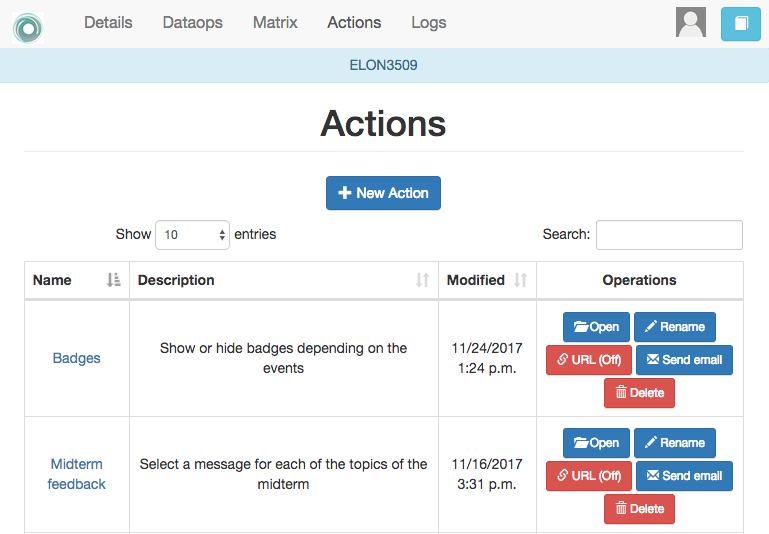
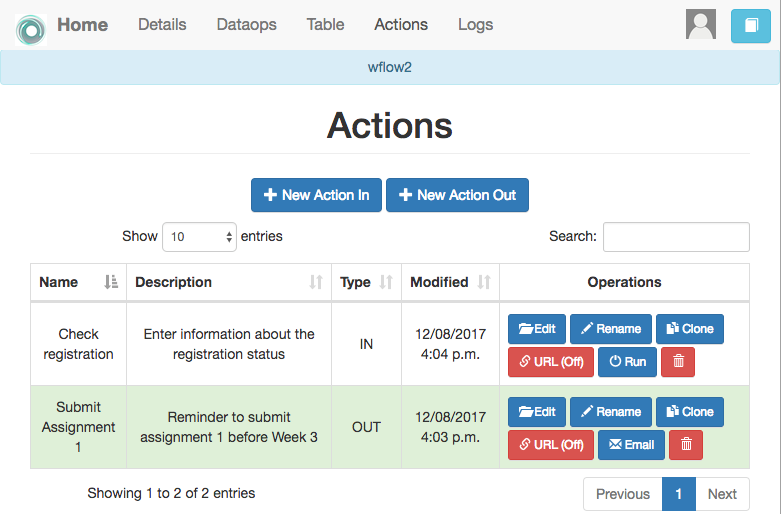
Additional information in the docs and additional pages and changes

Changed region(s): [[0.0312, 0.3113, 0.9675, 1.0], [0.0, 0.0, 1.0, 1.0]]

diff --git a/src/action/templates/action/run.html b/src/action/templates/action/run.html
@@ -17,10 +17,10 @@
   <script src="https://cdn.datatables.net/1.10.16/js/dataTables.bootstrap.min.js"></script>
   <script src="{% static 'table/js/table.js' %}"></script>
   <script type="text/javascript">
-    if (document.getElementById("table-data") != null) {
+    if (document.getElementById("actioninrun-data") != null) {
         // Required for DataTables
         $(document).ready(function() {
-            $('#table-data').DataTable({
+            $('#actioninrun-data').DataTable({
                 processing: true,
                 serverSide: true,
                 ajax: {
@@ -50,7 +50,7 @@
     <h4 class="page-header"><strong>{{ action.name }}</strong></h4>
     <p class="help-block">{{ action.description_text }}</p>
     <table class="table display dataTable no-footer cell-border table-bordered"
-           id="table-data">
+           id="actioninrun-data">
       <thead>
         <tr>
           {% for c in columns %}

diff --git a/src/static/site/css/main.css b/src/static/site/css/main.css
@@ -238,6 +238,7 @@ td.dt-body-center {
     }
 
 #table-data td,
+#actioninrun-data td,
 #workflow-table td,
 #action-table td,
 #log-table td {

diff --git a/src/action/tests/test_views.py b/src/action/tests/test_views.py
@@ -2,11 +2,14 @@
 from __future__ import unicode_literals, print_function
 
 import os
+import time
 
 from django.conf import settings
 from django.shortcuts import reverse
+from selenium.webdriver.common.by import By
+from selenium.webdriver.common.keys import Keys
 from selenium.webdriver.support import expected_conditions as EC
-from selenium.webdriver.support.ui import WebDriverWait
+from selenium.webdriver.support.ui import WebDriverWait, Select
 
 import test
 from dataops import pandas_db
@@ -768,64 +771,6 @@ class ActionActionRun(test.OntaskLiveTestCase):
         pandas_db.delete_all_tables()
         super(ActionActionRun, self).tearDown()
 
-    # Test operations with the filter
-    def test_action_01_data_entry(self):
-        # Login
-        self.login('instructor1@bogus.com')
-
-        self.open(reverse('workflow:index'))
-
-        # GO TO THE WORKFLOW PAGE
-        WebDriverWait(self.selenium, 10).until(
-            EC.title_is('Ontask :: Workflows'))
-        self.assertIn('New Workflow', self.selenium.page_source)
-        self.assertIn('Import', self.selenium.page_source)
-
-        # Open the workflow
-        wf_link = self.selenium.find_element_by_link_text(self.wflow_name)
-        wf_link.click()
-        WebDriverWait(self.selenium, 10).until(
-            EC.presence_of_element_located((By.ID, 'wflow-name')))
-
-        # Goto the action page
-        self.selenium.find_element_by_link_text('Actions').click()
-        self.assertIn('New Action', self.selenium.page_source)
-
-        # Create a new action
-        self.selenium.find_element_by_xpath(
-            "//body/div/p/button[1]"
-        ).click()
-        # Wait for page to introduce name
-        WebDriverWait(self.selenium, 10).until(
-            EC.element_to_be_clickable(
-                (By.ID, 'id_name')
-            )
-        )
-
-        self.selenium.find_element_by_id('id_name').send_keys(
-            'new action in'
-        )
-        desc = self.selenium.find_element_by_id('id_description_text')
-        desc.send_keys('small description')
-        desc.send_keys(Keys.RETURN)
-        # Wait for workflows page
-        WebDriverWait(self.selenium, 10).until(
-            EC.element_to_be_clickable(
-                (By.LINK_TEXT, test.wflow_name)
-            )
-        )
-
-        # End of session
-        self.logout()
-
-
-from selenium.webdriver.common.by import By
-from selenium.webdriver.common.keys import Keys
-from selenium.webdriver.support.ui import Select
-from selenium.common.exceptions import NoSuchElementException
-from selenium.common.exceptions import NoAlertPresentException
-import time
-
 
 class ActionActionInCreate(test.OntaskLiveTestCase):
     fixtures = ['simple_workflow_two_actions']
@@ -867,72 +812,56 @@ class ActionActionInCreate(test.OntaskLiveTestCase):
             EC.element_to_be_clickable((By.CLASS_NAME, 'success'))
         )
 
+        # Create new action
         self.selenium.find_element_by_xpath(
             "(//button[@type='button'])[2]"
         ).click()
 
+        # Introduce information about the action in the form
         self.selenium.find_element_by_id("id_name").click()
-
         self.selenium.find_element_by_id("id_name").clear()
-
         self.selenium.find_element_by_id("id_name").send_keys("new action in")
-
         self.selenium.find_element_by_xpath("//button[@type='submit']").click()
 
+        # Introducting the information in the action editor
         self.selenium.find_element_by_name("builder_rule_0_filter").click()
-
         Select(self.selenium.find_element_by_name(
             "builder_rule_0_filter")).select_by_visible_text("registered")
-
         self.selenium.find_element_by_name("builder_rule_0_value_0").click()
-
         self.selenium.find_element_by_id("id____ontask___select_1").click()
-
         self.selenium.find_element_by_id("id____ontask___select_4").click()
-
+        # Submit the action
         self.selenium.find_element_by_xpath(
             "(//button[@name='Submit'])[2]").click()
         WebDriverWait(self.selenium, 10).until(
             EC.element_to_be_clickable((By.CLASS_NAME, 'js-action-showurl'))
         )
 
+        # Run the action
         self.selenium.find_element_by_xpath(
             "//table[@id='action-table']/tbody/tr[3]/td[5]/a[3]").click()
-
+        WebDriverWait(self.selenium, 10).until(
+            EC.element_to_be_clickable(
+                (By.LINK_TEXT, "student2@bogus.com")
+            )
+        )
+        # Enter data for the remaining user
         self.selenium.find_element_by_link_text("student2@bogus.com").click()
-
+        # Mark as registered
         self.selenium.find_element_by_id("id____ontask___select_1").click()
-
+        # Submit form
         self.selenium.find_element_by_xpath(
             "(//button[@name='submit'])[2]"
         ).click()
-
+        WebDriverWait(self.selenium, 10).until(
+            EC.presence_of_element_located(
+                (By.XPATH, "//table[@id='actioninrun-data']/tbody")
+            )
+        )
+        self.assertIn('No matching records found', self.selenium.page_source)
         self.selenium.find_element_by_xpath(
             "(//button[@type='button'])[2]"
         ).click()
 
-    def is_element_present(self, how, what):
-        try:
-            self.selenium.find_element(by=how, value=what)
-        except NoSuchElementException as e:
-            return False
-        return True
-
-    def is_alert_present(self):
-        try:
-            self.selenium.switch_to_alert()
-        except NoAlertPresentException as e:
-            return False
-        return True
-
-    def close_alert_and_get_its_text(self):
-        try:
-            alert = self.selenium.switch_to_alert()
-            alert_text = alert.text
-            if self.accept_next_alert:
-                alert.accept()
-            else:
-                alert.dismiss()
-            return alert_text
-        finally:
-            self.accept_next_alert = True
+        # End of session
+        self.logout()

diff --git a/docs/Using/actions.rst b/docs/Using/actions.rst
@@ -7,19 +7,60 @@ The Actions
     vision"
     -- Dalai Lama
 
-This is perhaps the most important functionality of the platform. It allows edit a resource (in a format close to HTML) and mark certain elements with conditions that will control its appearance in the final view. Think of an *action* as a resource (item, message, tip, comment) you would give learners during a experience. You may have several of these items prepared to be used at different points during the expeience. As a consequence, a workflow may contain an arbitrary number of these actions. The *action* page simply shows a table with the actions contained in the workflow.
+This is the most important functionality of the platform. Actions are exchange of information with the learners. There are two types: actions in, and actions out. A workflow contains an arbitrary number of these actions. The *action* page shows a table with the actions in the selected workflow.
 
 .. figure:: images/Ontask____Actions.png
    :align: center
    :width: 100%
 
-Similarly to the case of the workflow, each action is identified by a name (unique) and an optional description. There are also various operations supported for each action (right most column in the table shown in the previous figure). Also, and following the same structure than the workflow, you may open an action to manipulate it by clicking on its name. The action is manipulated with the screen shown in the following figure
+Similarly to the case of the workflow, each action is identified by a name (unique) and an optional description. There are several operations supported for each action (right most column in the table shown in the previous figure).
+
+Actions In
+**********
+
+These actions allow you either instructors or students to introduce information in the table stored in a workflow. When providing information, you typicially are interested in a subset of the rows (some of the learners) and a subset of the columns (some of the factors). For example, you would like to check if a group of students is attending one face-to-face session, or if a group of students is engaging in a project discussion.
+
+These actions are edited using the screen shown in the following figure:
+
+.. figure:: images/Ontask____Edit_action_in.png
+   :align: center
+   :width: 100%
+
+The page has two elements. The first one is a filter to restrict the rows in the table considered for data entry. You create a condition, and those rows that satisfy it are then prepared for data entry. The second part of the screen is to select those columns that you want to include in the data entry form. You must select at leaset a *Unique* column (shown with green background) and a non-unique column.
+
+Once an *Action In* has been selected, there are two operations available represented by the buttons with labels *Run* and *URL*. The *Run* operation is intended for the instructors to enter the data for a set of learners. After clicking the link the platform shows a table with the data about the learners. The table has a search box in the upper left corner to quickly find a person as ilustrated in the next figure.
+
+.. figure:: images/Ontask____Run_Action_In.png
+   :align: center
+   :width: 100%
+
+An instructor may click in the link available in the right column and it is offered the possibility of modifying the information in the pre-selected columns for that learner.
+
+.. figure:: images/Ontask____Enter_Data.png
+   :align: center
+   :width: 100%
+
+After entering the information the platform refreshes the list of students for which the data entry is still allowed.
+
+The second operation available for *Actions In* is to make available the URL to learners so that they individually enter the information themselves. If you go back to the table showing all the actions and click in the icon with label *URL* you are given the choice to enable/disable a specific URL for the students to access the data entry screen.
+
+.. figure:: images/Ontask____ActionsIn_URL.png
+   :align: center
+   :width: 80%
+
+You then may send or make available this URL and, after authentication, students will be able to enter the information requested and the values are automatically stored in the right row and column in the table.
+
+These actions offer an ideal procedure to collect information about any aspect of a course in a way that is centralized and available for further processing. The power of these actions is complemented when combined with *Actions Out*, in which personalized content is made available to the learners.
+
+Actions Out
+***********
+These actions allow to create a resource (in a format close to HTML) and mark certain elements with conditions that will control its appearance in the final view. Think of these *actions out* as a resource (item, message, tip, comment) you would give learners during a experience. You may have several of these items prepared to be used at different points during the expeience. The action is manipulated with the screen shown in the following figure
 
 .. figure:: images/Ontask____Edit_action1.png
    :align: center
    :width: 100%
 
-Before describing in detail the structure of this screen let's digress for a second and explore the concept of *condition*. A condition in OnTask is basically a Boolean expression (or if you prefer, an expression that when evaluated will return either **True** or **False**. These expressions are commonly used in other applications such as spreadsheets or programming languages. The following image shows an example of this condition.
+Before describing in detail the structure of this screen let's digress for a second and explore the concept of *condition*. A condition in OnTask is  a Boolean expression, or if you prefer, an expression that when evaluated will return either **True** or **False**. These expressions are commonly used in other applications such as spreadsheets or programming languages. The following image shows an example of this condition.
 
 .. figure:: images/Ontask____Edit_action_filter.png
    :align: center
@@ -83,8 +124,8 @@ The preview/save buttons
   and the *Preview* button shows how the text is rendered for every row in
   the table.
 
-Using column values, attributes and conditions in an action
-***********************************************************
+Using column values, attributes and conditions in an Action Out
+***************************************************************
 
 The purpose of this page is to allow you to create a text in the editor that
 may include three types of elements that are personalised for each row: an
@@ -121,8 +162,8 @@ should be ignored. The following figure illustrates this process.
      :align: center
      :width: 100%
 
-Previewing the content of an action
-***********************************
+Previewing the content of an Action Out
+***************************************
 
 Once a text is created, you need to verify that all the elements are properly
 visualised for each of the rows. This is the purpose of the ``Preview``
@@ -171,8 +212,8 @@ Snapshot of the workflow
   In this new workflow you can check the values and messages at the time the
   operation was executed.
 
-Offering personalised content to learners
-*****************************************
+Making personalised content available to learners
+*************************************************
 
 Sending a personalised email is just one of various possible actions to do
 with a personalised text. Another one is to make the content available

diff --git a/ChangeLog.md b/ChangeLog.md
@@ -5,9 +5,7 @@
   this functionality, instructors can easily enter information by hand, or 
   even collect the information from the students.
   
-- Clone workflow button now availabe as part of the details operations
-
-- [PENDING] Clone Action/Condition
+- Clone functionality for workflows, actions and conditions. 
 
 - [PENDING] Write the documentation for the new actions. Video? Gifs?
 
